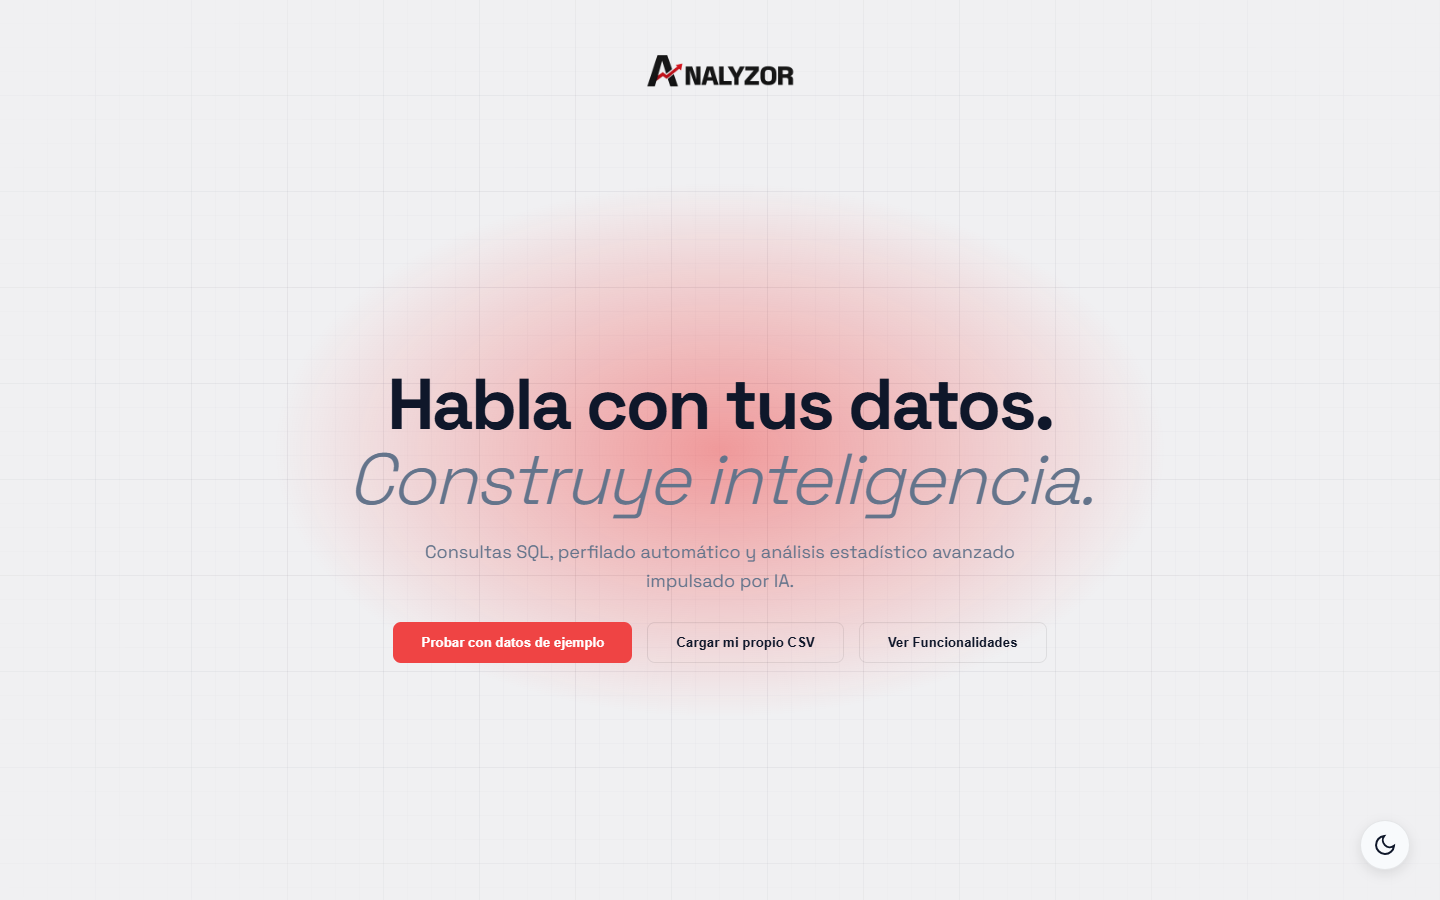
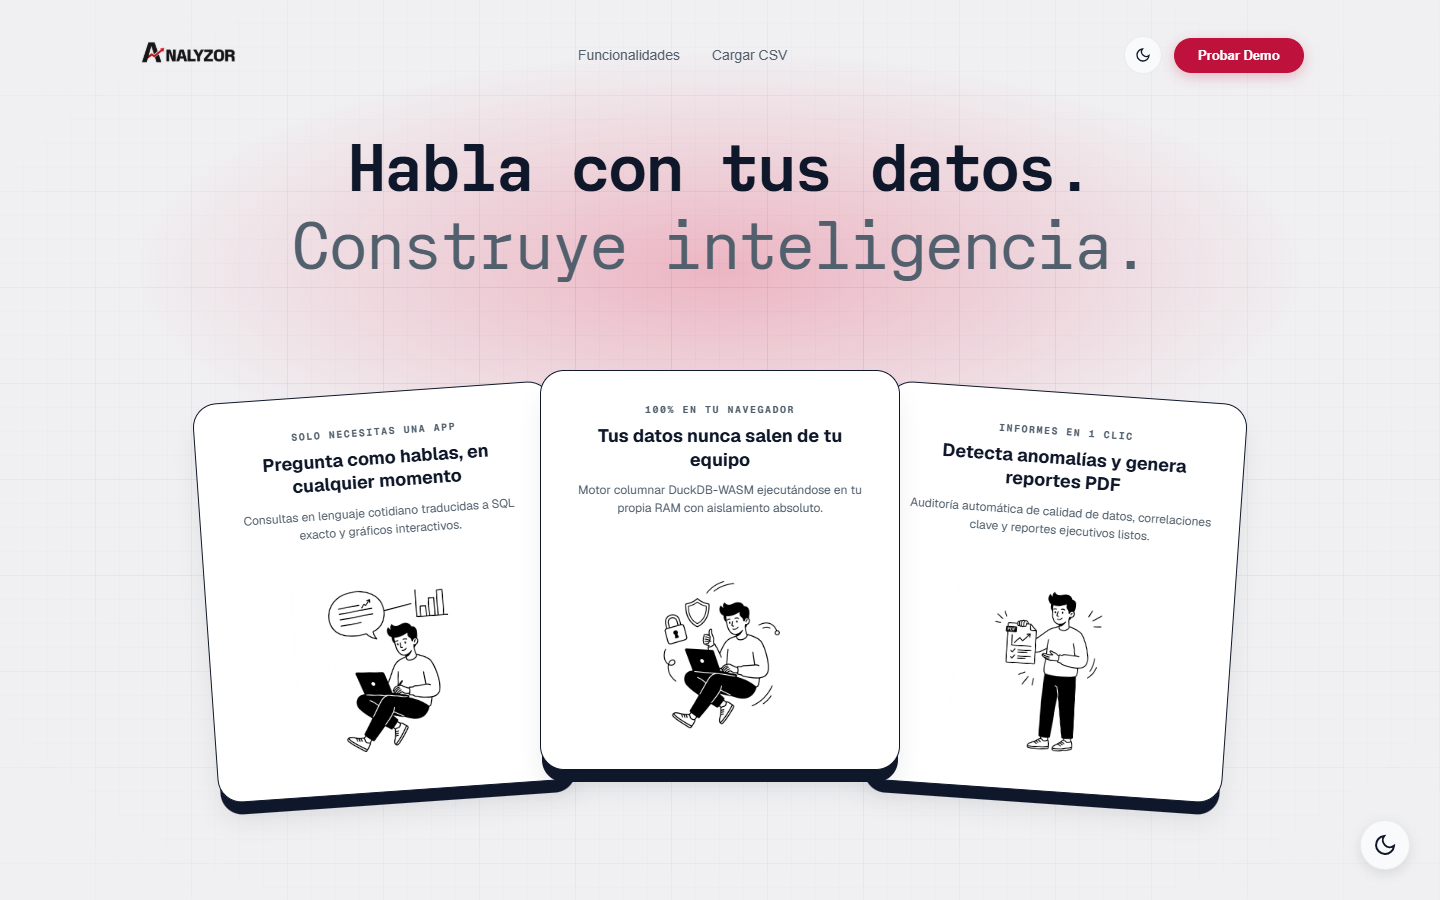
Actualizar README

diff --git a/README.md b/README.md
@@ -1,119 +1,136 @@
 # Analyzor
 
-**Habla con tus datos.** Sube un CSV, haz preguntas en lenguaje natural y obtén respuestas con tablas, gráficos y un reporte PDF. Todo el análisis corre en tu navegador: el archivo no se sube a ningún servidor.
+**Terminal analítica visual impulsada por IA y DuckDB-WASM.** Sube un archivo CSV o pega tus datos directo del portapapeles (`Ctrl + V`), formula preguntas en lenguaje natural y obtén respuestas inmediatas con gráficos interactivos, tablas dinámicas y reportes ejecutivos en PDF. Todo el procesamiento de datos corre en la memoria RAM de tu navegador: tus archivos nunca se envían a ningún servidor externo.
 
-**▶ Demo en vivo: [analyzor.vercel.app](https://analyzor.vercel.app)** · pulsa *Probar con datos de ejemplo* y tendrás un dashboard en un clic.
+**Demo en vivo: [analyzor.vercel.app](https://analyzor.vercel.app)** · pulsa *Probar Demo* para explorar el entorno en un clic con datos de ejemplo.
 
 ![React](https://img.shields.io/badge/React-19-61DAFB.svg)
 ![DuckDB](https://img.shields.io/badge/DuckDB--WASM-1.33-FFF000.svg)
+![Vite](https://img.shields.io/badge/Vite-8-646CFF.svg)
 ![Cloudflare](https://img.shields.io/badge/Cloudflare-Workers-F38020.svg)
 ![Groq](https://img.shields.io/badge/Groq-gpt--oss-1A1A2E.svg)
 
 ![Portada de Analyzor](docs/screenshots/01-portada.png)
 
-## Qué puedes hacer
+## Funcionalidades principales
 
-- **Chat con IA que responde cualquier cosa.** Si preguntas por tus datos, la IA escribe el SQL, se ejecuta en tu navegador y te explica el resultado con un gráfico. Si conversas o preguntas otra cosa (saludos, programación, cultura general, "¿de qué trata mi dataset?"), responde en texto, con bloques de código y memoria de la conversación.
-- **Respaldo local.** Si la IA no está disponible o alcanzó su límite, un motor de reglas resuelve las preguntas comunes sobre tus datos (promedio, suma, máximo, conteos, agrupaciones…) y avisa al usuario.
-- **Perfilado automático.** Media, mediana, desviación, cuartiles, correlaciones, calidad de datos y anomalías.
-- **Gráficos en el chat.** Barras, líneas, dona, dispersión e histograma, elegidos según el resultado de cada consulta. Las fechas se dibujan como líneas, y puedes pedir el tipo con tus palabras («en barras», «en líneas», «en torta»). Cada gráfico se descarga como imagen PNG.
-- **Reporte PDF** generado en el navegador.
-- **CSV de Excel en español.** Detecta la codificación (Latin-1), el separador `;` y la coma decimal.
-- **Datos de ejemplo** de una tienda (500 ventas de 2025) para probarlo sin subir nada.
+### Carga y previsualización sin fricción
+- **Pegado directo del portapapeles (`Ctrl + V`):** Copia celdas o tablas desde Excel o Google Sheets y pégalas directamente en Analyzor. El sistema detecta y parsea los datos en memoria al instante sin obligar a guardar archivos en disco.
+- **Micro-inspección previa en Dropzone:** Al soltar o seleccionar un archivo, un micro-resumen animado en 200 ms detecta filas y columnas antes de iniciar el análisis.
+- **Sandbox interactivo en la portada:** Prueba consultas, correlaciones, evolución temporal y gráficos interactivos en vivo desde la misma landing page sin necesidad de registrarte ni cargar datos.
 
-| Análisis automático | Asistente con IA |
+### Dashboard analítico en Split View
+- **Entorno de trabajo simultáneo:** Visualiza métricas, gráficos automáticos y tablas al mismo tiempo que interactúas con el Asistente IA lateral (colapsable a pantalla completa o accesible vía drawer táctil en dispositivos móviles).
+- **Tabla interactiva DuckDB en tiempo real:** Ordena miles de filas por cualquier columna en menos de 3 ms, filtra al instante con búsqueda global multicriterio y examina nulos con badges discretos.
+- **Detección de anomalías con Click-To-Action:** Identifica filas con valores nulos o atípicos y accede a acciones directas de 1 clic para aislar los registros afectados o consultar a la IA sobre la causa.
+- **Telemetría local en el navegador:** Indicador en tiempo real de milisegundos de cómputo y verificación de privacidad (0 bytes transmitidos a servidores externos).
+
+### Chat analítico inteligente
+- **Autocompletado con `@` para columnas:** Escribe `@` en el campo de consulta para desplegar un menú inteligente con las columnas reales del dataset, evitando errores de tipeo.
+- **Preguntas sugeridas 100% dinámicas:** Generadas automáticamente a partir de la estructura del dataset cargado (top por categorías, evolución temporal si hay fechas, comparaciones numéricas).
+- **Acciones directas en cada respuesta:**
+  - **Copiar gráfico en 1 clic:** Copia la visualización como imagen PNG al portapapeles para pegarla en Slack, Teams, Notion o presentaciones.
+  - **Exportar vista de datos:** Copia tablas filtradas por la IA como TSV (para pegar en Excel) o CSV con un clic.
+- **Explicación humana de gráficos:** Cada visualización incluye un resumen en prosa que sintetiza la conclusión clave del gráfico.
+- **Protección y fallback automático:** Filtro estricto anti-alucinaciones que rechaza scripts de Python/matplotlib, extrayendo las sentencias SQL para garantizar visualizaciones interactivas nativas con Recharts en el navegador.
+
+### Craftmanship y estética visual
+- **Paleta carmesí refinado (`#e11d48`):** Un tono maduro y sereno para botones primarios, badges y acentos interactivos, reservando el rojo exclusivamente para alertas críticas y métricas focales.
+- **Tipografía numérica tabular (`tabular-nums`):** Números y porcentajes con ancho uniforme en toda la plataforma para evitar desalineaciones en tablas y métricas dinámicas.
+- **Bordes y elevaciones limpias:** Bordes sutiles de 1 px (`rgba(0,0,0,0.06)` en claro, `rgba(255,255,255,0.08)` en oscuro) y sombras de alta definición.
+- **100% libre de emojis:** Interfaz visual sobria con iconografía vectorial SVG profesional.
+- **Diseño responsive integral:** Optimizado para pantallas pequeñas (móviles sin desbordes horizontales) y monitores ultrawide/4K (hasta 1780 px sin espacios vacíos).
+
+| Portada editorial & Sandbox interactivo | Split View del Dashboard & Anomalías |
 |---|---|
-| ![Análisis del dataset](docs/screenshots/02-analisis.png) | ![Chat con IA y gráficos](docs/screenshots/03-chat.png) |
+| ![Portada de Analyzor](docs/screenshots/01-portada.png) | ![Análisis del dataset](docs/screenshots/02-analisis.png) |
+
+| Terminal analítica & Gráficos con IA | Tabla interactiva DuckDB (< 3 ms) |
+|---|---|
+| ![Chat con IA y gráficos](docs/screenshots/03-chat.png) | ![Tabla interactiva](docs/screenshots/04-vista-previa.png) |
 
 ## Cómo funciona
 
-Los datos **nunca salen de tu navegador**. El análisis corre localmente con DuckDB compilado a WebAssembly; solo la traducción "pregunta → SQL" usa una IA externa, y a ella se le envía únicamente el **esquema de columnas y hasta 5 filas de muestra**.
+Los datos **nunca salen de tu navegador**. El análisis analítico y las consultas SQL corren localmente con DuckDB compilado a WebAssembly. La IA externa se utiliza exclusivamente para traducir tu pregunta en lenguaje natural a una consulta SQL de lectura, enviando únicamente el **esquema de nombres de columnas y hasta 5 filas de muestra**.
 
 ```
-Navegador (React)                                     Cloudflare Worker          Groq
- ├─ DuckDB-WASM: perfilado estadístico y SQL      ┐
- ├─ IndexedDB: datasets y historial del chat      ├─ POST /api/ask, /api/answer ─▶ gpt-oss
- ├─ PDF generado en el cliente (jsPDF)            │   · la API key vive solo aquí
- └─ Motor de reglas (si la IA no está disponible) ┘   · origen permitido, tamaño y ráfagas limitados
-                                                      · cuota diaria por usuario y global (Durable Object)
+Navegador (React + DuckDB-WASM)                        Cloudflare Worker          Groq
+ ├─ DuckDB-WASM: ejecución SQL y perfilado local    ┐
+ ├─ IndexedDB: almacenamiento local de datasets     ├─ POST /api/ask, /api/answer ─▶ gpt-oss
+ ├─ Recharts + jsPDF: gráficos y reportes en cliente │   · la API key vive solo en el Worker
+ └─ Motor de reglas local (fallback si no hay IA)   ┘   · limitación de ráfagas y cuota diaria
+                                                        · 0 datos del archivo enviados a la nube
 ```
 
-- **Seguridad del SQL:** solo se acepta una consulta `SELECT`, sin funciones de lectura de archivos, y corre en el sandbox del navegador.
-- **Límites de uso de la IA:** el Worker cuenta las llamadas por IP y en total cada día (UTC). Al superarlas responde `429` y el chat sigue funcionando con el motor de reglas, avisando al usuario.
-- **Sin servidor de datos:** no hay base de datos, ni disco, ni arranque en frío. Cuesta $0 en los planes gratuitos.
+- **Seguridad del SQL:** Solo se ejecutan sentencias de lectura `SELECT` validadas por un guardia estricto, sin acceso a funciones de red ni sistema de archivos.
+- **Respaldo local sin IA:** Si la conexión a la IA no está disponible o se agota la cuota, el motor de reglas interno resuelve consultas de agregación, promedios, rankings, filtros y gráficos de forma autónoma.
+- **Sin servidores backend:** Sin base de datos centralizada, sin costo de infraestructura fija y sin arranque en frío.
 
-## Estructura
+## Estructura del proyecto
 
 ```
-frontend/            React + Vite
-  src/engine/        Motor local: DuckDB, perfilado, chat, PDF, IndexedDB
-  src/api/           Adaptadores que exponen el motor con la forma de API que usa la UI
-  src/pages, components/
-  public/ejemplo_ventas.csv   Dataset de ejemplo (scripts/generate-sample-data.mjs)
-worker/              Cloudflare Worker: proxy de IA, validación y cuotas de uso
-docs/screenshots/    Capturas del README (npm run screenshots)
+frontend/            React 19 + Vite 8
+  src/engine/        Motor local: DuckDB-WASM, perfilado estadístico, chat, PDF, IndexedDB
+  src/api/           Adaptadores que exponen el motor con la interfaz de API de la UI
+  src/components/    Componentes interactivos: Split View, Chat, Tabla DuckDB, Gráficos
+  src/pages/         Landing editorial y Dashboard analítico
+  scripts/           Automatización de capturas oficiales con Puppeteer
+worker/              Cloudflare Worker: proxy seguro de IA, validación y control de cuotas
+docs/screenshots/    Capturas oficiales del README
 ```
 
 ## Desarrollo local
 
-Requisitos: Node 20+.
+Requisitos: Node.js 20+.
 
 ```bash
 cd frontend
 npm install
-npm run dev          # http://localhost:5173
-npm test             # pruebas del motor
-npm run lint
+npm run dev          # Inicia en http://localhost:5173
+npm test             # Ejecuta la suite de pruebas unitarias (Vitest)
+npm run lint         # Verificación de linter (ESLint)
 ```
 
-Sin más configuración la app funciona con el motor de reglas. Para activar la IA en local:
+Sin configuración adicional, la aplicación opera al 100% utilizando el motor local de DuckDB y reglas. Para activar la traducción con IA en entorno local:
 
 ```bash
 cd worker
 npm install
-npx wrangler dev --var GROQ_API_KEY:<tu-clave>     # http://localhost:8787
-# en otra terminal, en frontend/.env.local:
-#   VITE_LLM_URL=http://localhost:8787
+npx wrangler dev --var GROQ_API_KEY:<tu-clave-groq>     # Inicia en http://localhost:8787
+
+# En frontend/.env.local:
+# VITE_LLM_URL=http://localhost:8787
 ```
 
-> No pegues la clave en el código ni en el repo (`.env.local` está ignorado por git). `npm run smoke` en `worker/` prueba la IA real de extremo a extremo con la clave de tu entorno (`GROQ_API_KEY`).
-
-Regenerar las capturas del README (con la app corriendo):
+Para regenerar las capturas oficiales de la documentación:
 
 ```bash
 cd frontend
 npm run screenshots
 ```
 
-## Despliegue
+## Despliegue en producción
 
-**1. Worker de IA (Cloudflare, plan gratuito)**
+**1. Worker de IA (Cloudflare Workers)**
 
 ```bash
 cd worker
 npx wrangler login
-npx wrangler secret put GROQ_API_KEY        # copia la clave (empieza por gsk_) y pégala con clic derecho
-# revisa ALLOWED_ORIGINS en wrangler.toml: debe ser el dominio exacto de tu frontend
-npx wrangler deploy                         # imprime la URL del Worker
+npx wrangler secret put GROQ_API_KEY
+npx wrangler deploy
 ```
 
-El primer despliegue crea también el Durable Object `UsageCounter` (contadores de cuota). Los topes diarios se ajustan en `wrangler.toml` con `DAILY_LIMIT_PER_IP` y `DAILY_LIMIT_GLOBAL` (cada pregunta del chat usa 1 o 2 llamadas de IA). Para ver errores en vivo: `npx wrangler tail analyzor-llm`.
+Configura `ALLOWED_ORIGINS` en `wrangler.toml` con la URL de tu frontend en producción.
 
-**2. Frontend en Vercel** (también sirve Cloudflare Pages u otro hosting estático)
+**2. Frontend (Vercel o Cloudflare Pages)**
 
-- Conecta el repositorio. Directorio raíz: `frontend` · Comando de build: `npm run build` · Salida: `dist`.
-- Variable de entorno: `VITE_LLM_URL` = la URL del Worker, aplicada a **Production**. Se lee al construir, así que hay que redesplegar tras cambiarla.
-- `frontend/vercel.json` reescribe todas las rutas a `index.html`, para que recargar `/dashboard/…` o compartir ese enlace funcione.
+- Directorio raíz: `frontend`
+- Comando de build: `npm run build`
+- Directorio de salida: `dist`
+- Variable de entorno: `VITE_LLM_URL` con la URL de tu Cloudflare Worker desplegado.
 
-Los binarios de DuckDB-WASM (~35 MB) se descargan del CDN de jsDelivr en la primera visita y quedan en caché; no se suben al hosting.
+## Privacidad y almacenamiento
 
-## Límites conocidos
-
-- Los datasets viven en el navegador (IndexedDB): borrar los datos del sitio los elimina. Tamaño máximo: 200 MB por CSV.
-- Las copias de prueba (*preview*) de Vercel no tienen IA: el Worker solo acepta el dominio de producción. Ahí el chat usa el motor de reglas.
-- Los límites y modelos de los planes gratuitos (Groq, Cloudflare, Vercel) cambian con el tiempo. El modelo se configura con `GROQ_MODEL` (por defecto `openai/gpt-oss-120b`; Groq retiró `llama-3.3-70b-versatile` el 16/08/2026, consulta [la lista de deprecaciones](https://console.groq.com/docs/deprecations)). El plan gratuito de Vercel (Hobby) es solo para uso no comercial.
-- La versión anterior (Django + PostgreSQL en Render) está disponible en el tag `legacy-django`.
-
-## Camino a producto
-
-La persistencia pasa por `frontend/src/engine/store.js`. Para cuentas de usuario y sincronización entre dispositivos basta con implementar la misma interfaz sobre un servicio como Supabase (Auth + Storage) y aplicar cuotas por usuario en el Worker.
+- Los datasets residen exclusivamente en el almacenamiento local del navegador (`IndexedDB`).
+- Límite recomendado: hasta 200 MB por archivo CSV (procesado mediante streaming en DuckDB-WASM).
+- Al limpiar la memoria caché o datos del navegador, los datasets locales se eliminan por completo.
